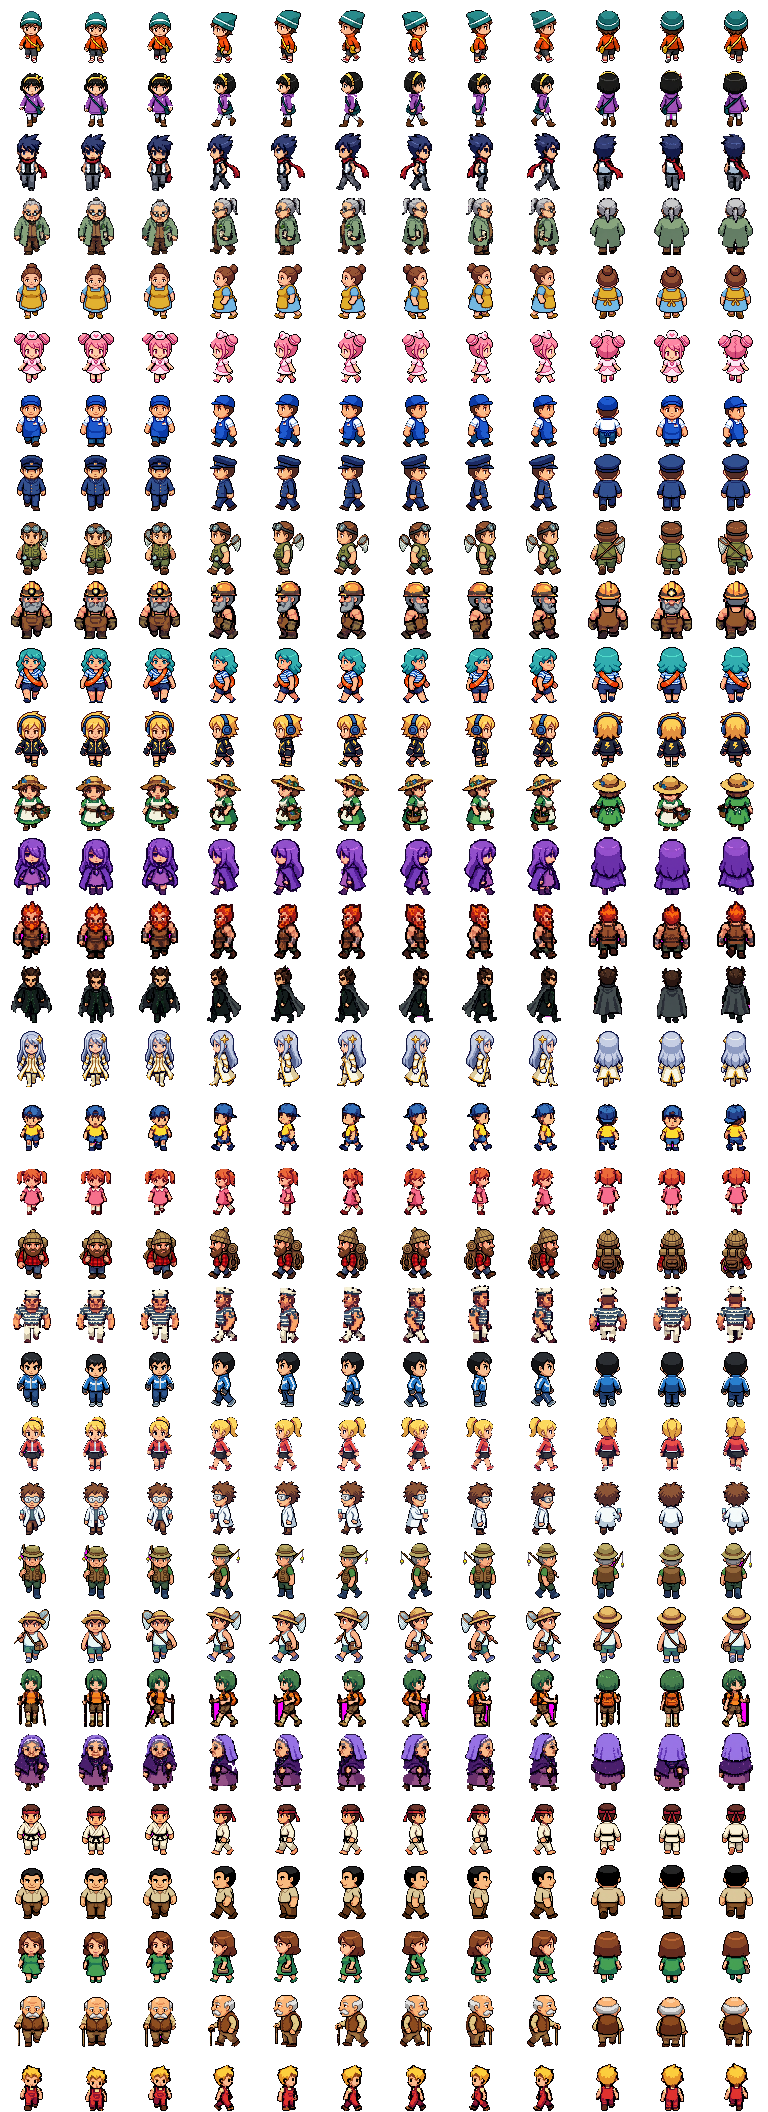
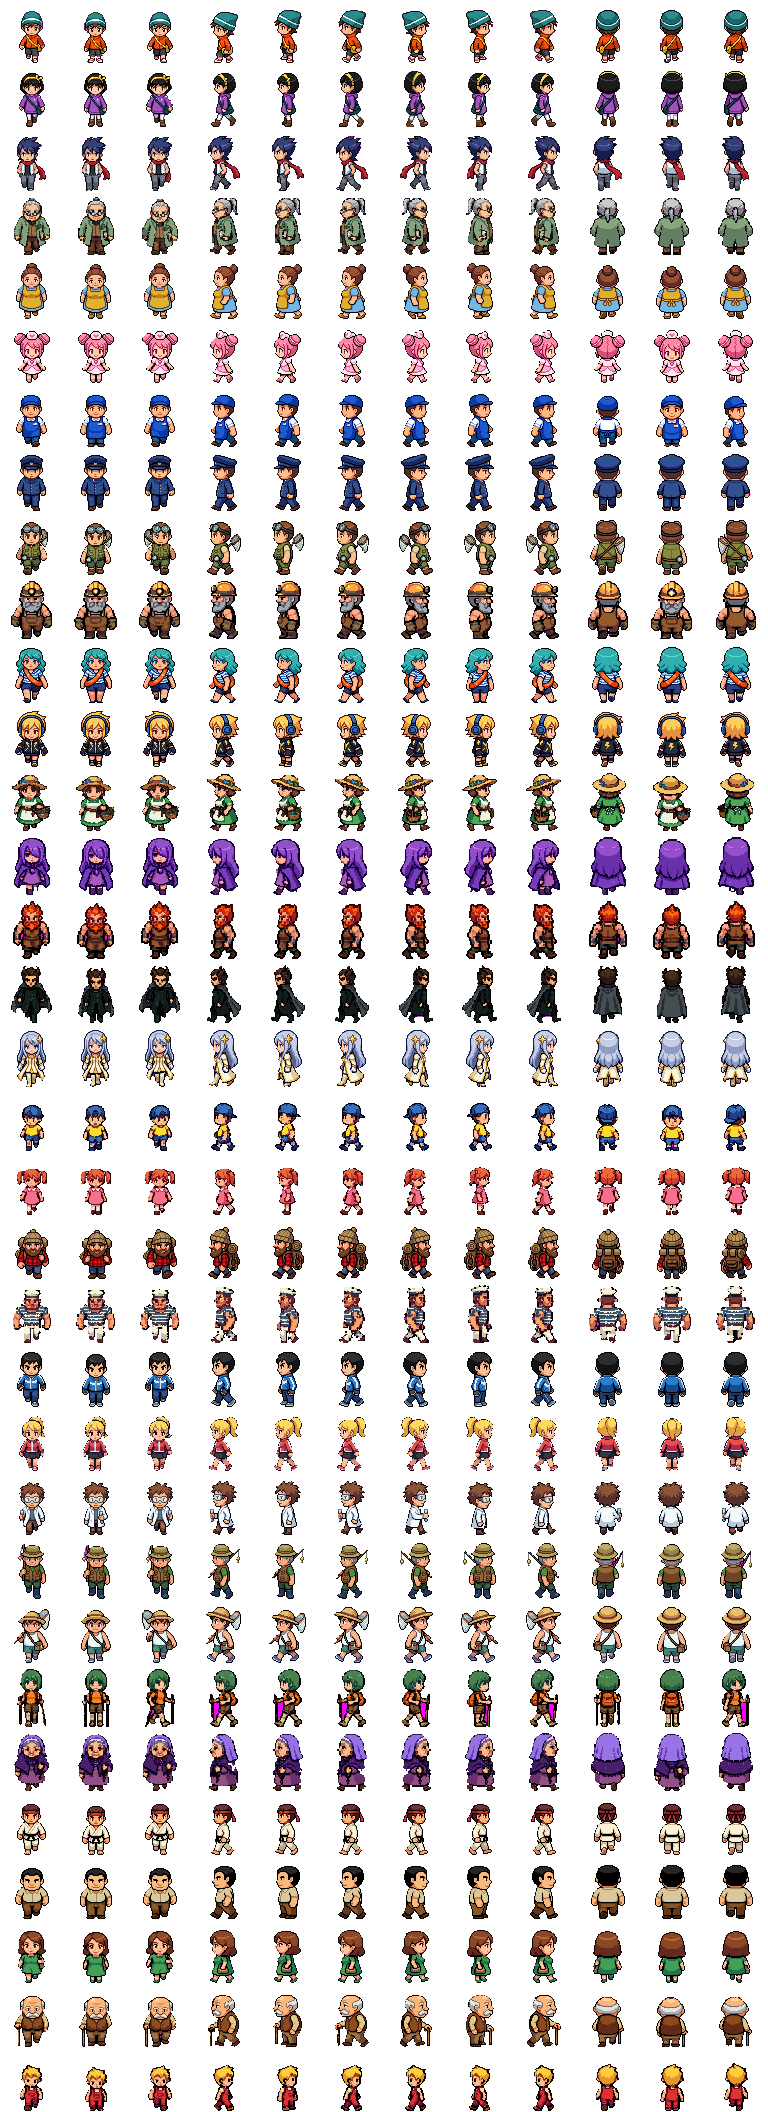
feat(odyssee): les planches retouchées à la main affichées pixel pour pixel
- Planches en vraie résolution sur fond transparent (joueur, joueuse, Théo, nature) reprises telles quelles :
  ombres violettes et traits de grille à moitié transparents retirés, liseré teinté par l'ancien fond magenta
  ramené à un contour sombre ; les vêtements violets rendus à moitié transparents par le détourage restent opaques.
- Herbes hautes et barrière : une case découpée dans le motif au lieu d'une réduction.
- Objets en plusieurs morceaux (fleurs) réunis dans leur case.

Claude-Session: https://claude.ai/code/session_01RNJ5Y5KLSaMx3FdfXRfks8

diff --git a/odyssee/js/data/sprites.js b/odyssee/js/data/sprites.js
@@ -1,2 +1,2 @@
 // Généré par tools/odyssee-sprites.py — ne pas modifier à la main.
-export const SPRITES = {"crea":["capyousse","capyflore","capysaule","mechelet","ciroulet","lustrelle","narvi","narvalier","narvaillant","piouf","piouffon","plumorage","grignotin","ronchonnet","chouillon","hulumiere","larvoile","cocoreille","vitrailune","bourdonnet","champinou","champitron","cerfantome","noctaile","noctailor","galetin","rocrabe","cristaupe","bulotin","bulotide","croabulle","croamonde","crevitonne","gerbizz","gerboltz","ampoulet","tricotine","corolline","songebelle","revelaine","tisonnard","brasieraud","sombrecaille","nocturmine","frimousse","morsegivre","boulonnet","rouagant","draquelin","draconfle","cieldrake","odyssor"],"chars":{"w":64,"h":64,"d":2,"rows":{"player_m":0,"player_f":1,"theo":2,"saule":3,"maman":4,"nurse":5,"vendeur":6,"garde":7,"hector":8,"basalte":9,"marine":10,"volta":11,"flora":12,"sibylle":13,"pyros":14,"drakos":15,"celestine":16,"gamin":17,"fillette":18,"montagnard":19,"marin":20,"topdresseur":21,"topdresseuse":22,"scientifique":23,"pecheur":24,"insectomane":25,"randonneuse":26,"medium":27,"karateka":28,"habitant":29,"habitante":30,"vieil_homme":31,"enfant":32}},"portraits":["hector","basalte","marine","volta","flora","sibylle","pyros","drakos","celestine","saule","theo","gamin","fillette","montagnard","marin","topdresseur","topdresseuse","scientifique","pecheur","insectomane","randonneuse","medium","karateka","habitant","habitante"],"items":["poke-ball","great-ball","ultra-ball","potion","super-potion","hyper-potion","max-potion","full-heal","revive","antidote","paralyze-heal","awakening","burn-heal","ice-heal","full-restore","escape-rope","repel","super-repel","max-repel","rare-candy","fire-stone","water-stone","thunder-stone","leaf-stone","moon-stone","sun-stone","oran-berry","ether","elixir","bag","dex","town-map","wallet","notebook","letter","gift"],"nature":{"tree":[46,39,2],"tree2":[46,47,2],"pine":[42,59,2],"snowpine":[42,52,2],"deadtree":[41,56,2],"palm":[48,54,2],"bush":[26,23,2],"rock":[30,27,2],"caverock":[32,28,2],"stalag":[25,43,2],"tuft":[32,36,2],"tuft1":[30,30,2],"darktuft":[32,36,2],"flowers_r":[28,24,2],"flowers_y":[28,24,2],"flowers_w":[28,24,2],"sign":[24,35,2],"fence":[32,15,2],"lamp":[14,47,2],"mailbox":[22,34,2],"pot":[20,24,2],"itemball":[12,12,2],"bang":[14,16],"statue":[22,46,2],"tree3":[46,47,2],"crackrock":[32,28,2],"cuttree":[21,31,2],"gymstatue":[22,46,2],"snowtuft":[32,36,2]},"mobilier":{"healer":[64,64,2],"pc":[32,64,2],"books":[32,64,2],"tv":[32,40,2],"bed":[32,64,2],"table":[32,32,2],"plant":[32,60,2],"gymstatue":[32,64,2],"shelf":[32,60,2],"counterseg":[32,40,2],"chair":[32,36,2],"sofa":[64,40,2],"fridge":[32,64,2],"kitchen":[32,44,2],"clock":[32,64,2],"painting":[32,28,2],"boxes":[32,36,2],"labmachine":[32,60,2],"startertable":[64,44,2],"bench":[64,36,2],"trash":[32,32,2],"vase":[32,36,2],"fireplace":[64,60,2],"rug":[64,32,2]},"sol":["grass0","grass1","grass2","grass3","tall0","tall1","forest0","forest1","path","sand","pave","ash0","ash1","snow0","snow1","cave","water0","water1","water2","water3","deep","flowerR","flowerY","flowerW","ledge","ledgeE","ledgeW","bridge","stairs","cavestairs","mat","matgreen","cliff","cliffplain","cavewall","cavetop","wall_in","wall_center","wall_mart","wall_gym","wall_league","walltop","floor_wood","floor_center","floor_mart","floor_lab","floor_league","counter","floor_gymBug","floor_gymRock","floor_gymWater","floor_gymElec","floor_gymGrass","floor_gymPsy","floor_gymFire","floor_gymDragon","counterfront","martfront","shelf","roof_flat","lava0","lava1","grass4","grass5"],"facades":["maison","centre","boutique","arene","labo","ligue","grotte"],"natureV2":true};
+export const SPRITES = {"crea":["capyousse","capyflore","capysaule","mechelet","ciroulet","lustrelle","narvi","narvalier","narvaillant","piouf","piouffon","plumorage","grignotin","ronchonnet","chouillon","hulumiere","larvoile","cocoreille","vitrailune","bourdonnet","champinou","champitron","cerfantome","noctaile","noctailor","galetin","rocrabe","cristaupe","bulotin","bulotide","croabulle","croamonde","crevitonne","gerbizz","gerboltz","ampoulet","tricotine","corolline","songebelle","revelaine","tisonnard","brasieraud","sombrecaille","nocturmine","frimousse","morsegivre","boulonnet","rouagant","draquelin","draconfle","cieldrake","odyssor"],"chars":{"w":64,"h":64,"d":2,"rows":{"player_m":0,"player_f":1,"theo":2,"saule":3,"maman":4,"nurse":5,"vendeur":6,"garde":7,"hector":8,"basalte":9,"marine":10,"volta":11,"flora":12,"sibylle":13,"pyros":14,"drakos":15,"celestine":16,"gamin":17,"fillette":18,"montagnard":19,"marin":20,"topdresseur":21,"topdresseuse":22,"scientifique":23,"pecheur":24,"insectomane":25,"randonneuse":26,"medium":27,"karateka":28,"habitant":29,"habitante":30,"vieil_homme":31,"enfant":32}},"portraits":["hector","basalte","marine","volta","flora","sibylle","pyros","drakos","celestine","saule","theo","gamin","fillette","montagnard","marin","topdresseur","topdresseuse","scientifique","pecheur","insectomane","randonneuse","medium","karateka","habitant","habitante"],"items":["poke-ball","great-ball","ultra-ball","potion","super-potion","hyper-potion","max-potion","full-heal","revive","antidote","paralyze-heal","awakening","burn-heal","ice-heal","full-restore","escape-rope","repel","super-repel","max-repel","rare-candy","fire-stone","water-stone","thunder-stone","leaf-stone","moon-stone","sun-stone","oran-berry","ether","elixir","bag","dex","town-map","wallet","notebook","letter","gift"],"nature":{"tree":[47,48,2],"tree2":[47,48,2],"pine":[43,60,2],"snowpine":[43,61,2],"deadtree":[39,57,2],"palm":[49,56,2],"bush":[27,24,2],"rock":[30,28,2],"caverock":[32,29,2],"stalag":[26,44,2],"tuft":[32,36,2],"tuft1":[30,40,2],"darktuft":[32,36,2],"flowers_r":[30,26,2],"flowers_y":[30,26,2],"flowers_w":[30,26,2],"sign":[26,36,2],"fence":[32,29,2],"lamp":[14,48,2],"mailbox":[23,35,2],"pot":[24,29,2],"itemball":[14,15,2],"bang":[14,16],"statue":[26,55,2],"tree3":[47,48,2],"crackrock":[32,28,2],"cuttree":[15,32,2],"gymstatue":[26,55,2],"snowtuft":[32,36,2]},"mobilier":{"healer":[64,64,2],"pc":[32,64,2],"books":[32,64,2],"tv":[32,40,2],"bed":[32,64,2],"table":[32,32,2],"plant":[32,60,2],"gymstatue":[32,64,2],"shelf":[32,60,2],"counterseg":[32,40,2],"chair":[32,36,2],"sofa":[64,40,2],"fridge":[32,64,2],"kitchen":[32,44,2],"clock":[32,64,2],"painting":[32,28,2],"boxes":[32,36,2],"labmachine":[32,60,2],"startertable":[64,44,2],"bench":[64,36,2],"trash":[32,32,2],"vase":[32,36,2],"fireplace":[64,60,2],"rug":[64,32,2]},"sol":["grass0","grass1","grass2","grass3","tall0","tall1","forest0","forest1","path","sand","pave","ash0","ash1","snow0","snow1","cave","water0","water1","water2","water3","deep","flowerR","flowerY","flowerW","ledge","ledgeE","ledgeW","bridge","stairs","cavestairs","mat","matgreen","cliff","cliffplain","cavewall","cavetop","wall_in","wall_center","wall_mart","wall_gym","wall_league","walltop","floor_wood","floor_center","floor_mart","floor_lab","floor_league","counter","floor_gymBug","floor_gymRock","floor_gymWater","floor_gymElec","floor_gymGrass","floor_gymPsy","floor_gymFire","floor_gymDragon","counterfront","martfront","shelf","roof_flat","lava0","lava1","grass4","grass5"],"facades":["maison","centre","boutique","arene","labo","ligue","grotte"],"natureV2":true};

diff --git a/hub/hub.js b/hub/hub.js
@@ -1,7 +1,7 @@
 /* Hub : profil, salon commun et lancement des jeux dans une iframe.
    Le salon (DDRoom) vit ici pendant toute la session : changer de jeu ne coupe pas la connexion. */
 (function () {
-  const VERSION = '3.33';
+  const VERSION = '3.34';
   const $ = (s) => document.querySelector(s);
   const ORIGIN = location.origin === 'null' ? '*' : location.origin;
   const GAMES = window.HUB_GAMES;

diff --git a/tools/odyssee-sprites.py b/tools/odyssee-sprites.py
@@ -28,6 +28,53 @@ def load(name):
             return rgb
     return np.array(im.convert('RGB'))
 
+def is_native(name):
+    """planche retouchée à la main en vraie résolution (un pixel = un pixel), sur fond transparent"""
+    im = Image.open(os.path.join(SRC, name))
+    return max(im.size) < 600 and (im.mode in ('RGBA', 'LA', 'PA') or 'transparency' in im.info)
+
+def clean_alpha(a, body=None):
+    """RGBA nette : les pixels à moitié transparents (ombres violettes, traits de grille, restes de fond) disparaissent.
+    body : zone (au-dessus des pieds) où un pixel assez opaque fait partie du dessin — le détourage a parfois rendu
+    à moitié transparent un vêtement violet, proche du fond magenta d'origine"""
+    keep = a[..., 3] >= 230
+    if body is not None: keep |= body & (a[..., 3] >= 140)
+    a[..., 3] = np.where(keep, 255, 0)
+    # liseré resté teinté par l'ancien fond magenta (vert à zéro, rouge ≈ bleu) au bord du dessin : contour sombre neutre
+    r, g, b = a[..., 0].astype(int), a[..., 1].astype(int), a[..., 2].astype(int)
+    op = a[..., 3] > 0
+    fringe = op & (g <= 8) & (np.minimum(r, b) > 20) & (np.abs(r - b) < 40) & ndimage.binary_dilation(~op)
+    a[fringe, :3] = (38, 30, 42)
+    a[a[..., 3] == 0, :3] = 0
+    return a
+
+def load_native(name):
+    return clean_alpha(np.array(Image.open(os.path.join(SRC, name)).convert('RGBA')))
+
+def native_cells(a, cols, rows, raw=False):
+    """cases d'une planche en vraie résolution : (image RGBA du dessin, rognée) ou None"""
+    H, W = a.shape[:2]; out = []
+    for j in range(rows):
+        for i in range(cols):
+            x0, x1, y0, y1 = round(i * W / cols), round((i + 1) * W / cols), round(j * H / rows), round((j + 1) * H / rows)
+            c = a[y0:y1, x0:x1].copy()
+            if raw:
+                # le corps : du haut du dessin jusqu'au-dessus des pieds (l'ombre au sol, en dessous, est retirée)
+                op = c[..., 3] >= 230; ys = np.nonzero(op.any(1))[0]
+                body = np.zeros(op.shape, bool)
+                if len(ys): body[ys[0]:ys[0] + int((ys[-1] - ys[0]) * 0.88)] = True
+                c = clean_alpha(c, body)
+            fg = c[..., 3] > 0
+            if fg.sum() < 20: out.append(None); continue
+            # traits de grille restés opaques : taches de 1 ou 2 pixels d'épaisseur
+            lab, n = ndimage.label(fg)
+            for k in range(1, n + 1):
+                ys, xs = np.nonzero(lab == k)
+                if min(np.ptp(ys), np.ptp(xs)) <= 1 and max(np.ptp(ys), np.ptp(xs)) > 8: fg[lab == k] = False
+            fg = keep_main(fg, frac=0.02, opening=0); c[~fg, 3] = 0
+            out.append(crop_alpha(Image.fromarray(c)))
+    return out
+
 def save(img, *parts):
     p = os.path.join(OUT, *parts); os.makedirs(os.path.dirname(p), exist_ok=True); img.save(p, optimize=True)
 
@@ -406,9 +453,13 @@ def do_chars():
     rows, report = {}, []
     for r, cid in enumerate(ids):
         fn, _ = CHARS[cid]
-        cells = char_cells(load(fn))
-        grids, p = sheet_grid(cells)
-        imgs = [snap(rgb, fg, grids[k])[0] if fg.sum() > 100 else None for k, (rgb, fg) in enumerate(cells)]
+        if is_native(fn):
+            # planche retouchée à la main en vraie résolution : rien à deviner, on garde chaque pixel
+            imgs = native_cells(np.array(Image.open(os.path.join(SRC, fn)).convert('RGBA')), 3, 4, raw=True); p = 1.0
+        else:
+            cells = char_cells(load(fn))
+            grids, p = sheet_grid(cells)
+            imgs = [snap(rgb, fg, grids[k])[0] if fg.sum() > 100 else None for k, (rgb, fg) in enumerate(cells)]
         # taille : on garde la résolution du dessin, sauf s'il dépasse la case
         hmax = max(im.height for im in imgs if im)
         lim = 50 if cid in CHAR_SMALL else 60
@@ -560,7 +611,18 @@ NATURE2_FIT = {'tree': (72, 96), 'tree2': (72, 96), 'tree3': (72, 96), 'pine': (
                'darktuft': ('wh', 32, 36), 'snowtuft': ('wh', 32, 36), 'flowers_r': (30, 26), 'flowers_y': (30, 26), 'flowers_w': (30, 26),
                'fence': ('w', 32), 'pot': (28, 32), 'statue': (32, 64), 'gymstatue': (32, 64), 'itemball': (20, 20)}
 
-def sheet_objects(a, cols, rows):
+def fit_nature(img, fit):
+    """taille du jeu. Herbes hautes et barrières sont des motifs qui se répètent : on en découpe une case
+    (32 pixels de large, en bas et au centre) au lieu de les réduire, pour garder chaque pixel dessiné"""
+    if fit[0] in ('wh', 'w'):
+        w = fit[1]; h = fit[2] if fit[0] == 'wh' else img.height
+        if img.width >= w and img.height >= h:
+            x0 = (img.width - w) // 2
+            return img.crop((x0, img.height - h, x0 + w, img.height))
+        return crisp_resize(img, w, h) if fit[0] == 'wh' else fit_px(img, 32, 64, exactw=w)
+    return fit_px(img, *fit)
+
+def sheet_objects(a, cols, rows, dil=2, minarea=150):
     """objets d'une planche sur fond magenta (cases plus ou moins régulières, traits de grille) : un objet par case,
     trouvé comme une tache de couleur, rangé dans la case où tombe son centre"""
     H, W = a.shape[:2]
@@ -577,15 +639,18 @@ def sheet_objects(a, cols, rows):
     lines = ndimage.binary_dilation(hl | vl, iterations=2)
     fg = ~bg & ~lines
     fg = ndimage.binary_opening(fg, iterations=1)
-    lab, n = ndimage.label(ndimage.binary_dilation(fg, iterations=2))
-    found = {}
+    lab, n = ndimage.label(ndimage.binary_dilation(fg, iterations=dil) if dil else fg)
+    # chaque tache rejoint la case où tombe son centre (un objet en plusieurs morceaux, comme des fleurs, est réuni)
+    masks = {}
     for k in range(1, n + 1):
         m = (lab == k) & fg
-        if m.sum() < 150: continue
+        if m.sum() < minarea: continue
         ys, xs = np.nonzero(m); cy, cx = ys.mean(), xs.mean()
         cell = (min(cols - 1, int(cx * cols / W)), min(rows - 1, int(cy * rows / H)))
-        if cell in found and found[cell][0].sum() > m.sum(): continue
-        found[cell] = (m, (ys.min(), ys.max() + 1, xs.min(), xs.max() + 1))
+        masks[cell] = masks[cell] | m if cell in masks else m
+    found = {}
+    for cell, m in masks.items():
+        ys, xs = np.nonzero(m); found[cell] = (m, (ys.min(), ys.max() + 1, xs.min(), xs.max() + 1))
     return found
 
 def do_nature2():
@@ -594,8 +659,19 @@ def do_nature2():
     for files, names in ((('nature_arbres.png', 'nature_abre.png'), NATURE2_TREES), (('nature_petits.png',), NATURE2_SMALL)):
         file = next((f for f in files if os.path.exists(os.path.join(SRC, f))), None)
         if not file: continue
-        a = load(file)
-        objs = sheet_objects(a, len(names[0]), len(names))
+        native = is_native(file)
+        if native:
+            A = load_native(file); a = A[..., :3].copy(); a[A[..., 3] == 0] = (255, 0, 255)
+        else: a = load(file)
+        objs = sheet_objects(a, len(names[0]), len(names), *((0, 6) if native else ()))
+        if native:
+            # vraie résolution : chaque objet est repris pixel pour pixel
+            for (i, j), (m, (y0, y1, x0, x1)) in sorted(objs.items()):
+                key = names[j][i]; c = A[y0:y1, x0:x1].copy(); c[~m[y0:y1, x0:x1], 3] = 0
+                img = fit_nature(crop_alpha(Image.fromarray(c)), NATURE2_FIT[key])
+                save(img, 'nature', key + '.png'); done[key] = [img.width, img.height, 2]
+                print('nature (vraie résolution)', key, img.size)
+            continue
         crops = {}
         for (i, j), (m, (y0, y1, x0, x1)) in objs.items():
             pad = 6; y0, x0 = max(0, y0 - pad), max(0, x0 - pad); y1, x1 = min(a.shape[0], y1 + pad), min(a.shape[1], x1 + pad)
@@ -606,10 +682,7 @@ def do_nature2():
         for (i, j), (rgb, fg) in sorted(crops.items()):
             key = names[j][i]
             img, p = snap(rgb, fg, grid_phase(rgb, fg, pS) if pS else None)
-            fit = NATURE2_FIT[key]
-            if fit[0] == 'wh': img = crisp_resize(img, fit[1], fit[2])   # herbes hautes : une case pleine, les rangées se chevauchent
-            elif fit[0] == 'w': img = fit_px(img, 32, 64, exactw=fit[1])
-            else: img = fit_px(img, *fit)
+            img = fit_nature(img, NATURE2_FIT[key])
             save(img, 'nature', key + '.png')
             done[key] = [img.width, img.height, 2]
             print('nature (v2)', key, 'pas', round(p, 2), img.size)

diff --git a/CHANGELOG.md b/CHANGELOG.md
@@ -1,13 +1,7 @@
 # Journal des versions — Game Hub (Duo Drift, DavidSimulator)
 
-## 3.33 — 30 octobre 2026
-- Add files via upload (Gabe)
-
-## 3.32 — 30 octobre 2026
-- Delete assets/graphics/nature_petits.png (Gabe)
-
-## 3.31 — 30 octobre 2026
-- Delete assets/graphics/joueur_f.png (Gabe)
+## 3.34 — 30 octobre 2026
+- **Odyssée** — le joueur, la joueuse, Théo, les herbes, les fleurs et les arbres utilisent les dessins retouchés à la main : chaque pixel est affiché tel quel, sans ombre violette ni contour de fond.
 
 ## 3.30 — 30 octobre 2026
 - **Odyssée** — nouveaux dessins : le joueur, la joueuse, Théo, les arbres, les rochers, les herbes et les fleurs sont redessinés en pixel art façon DS, vus de 3/4.
